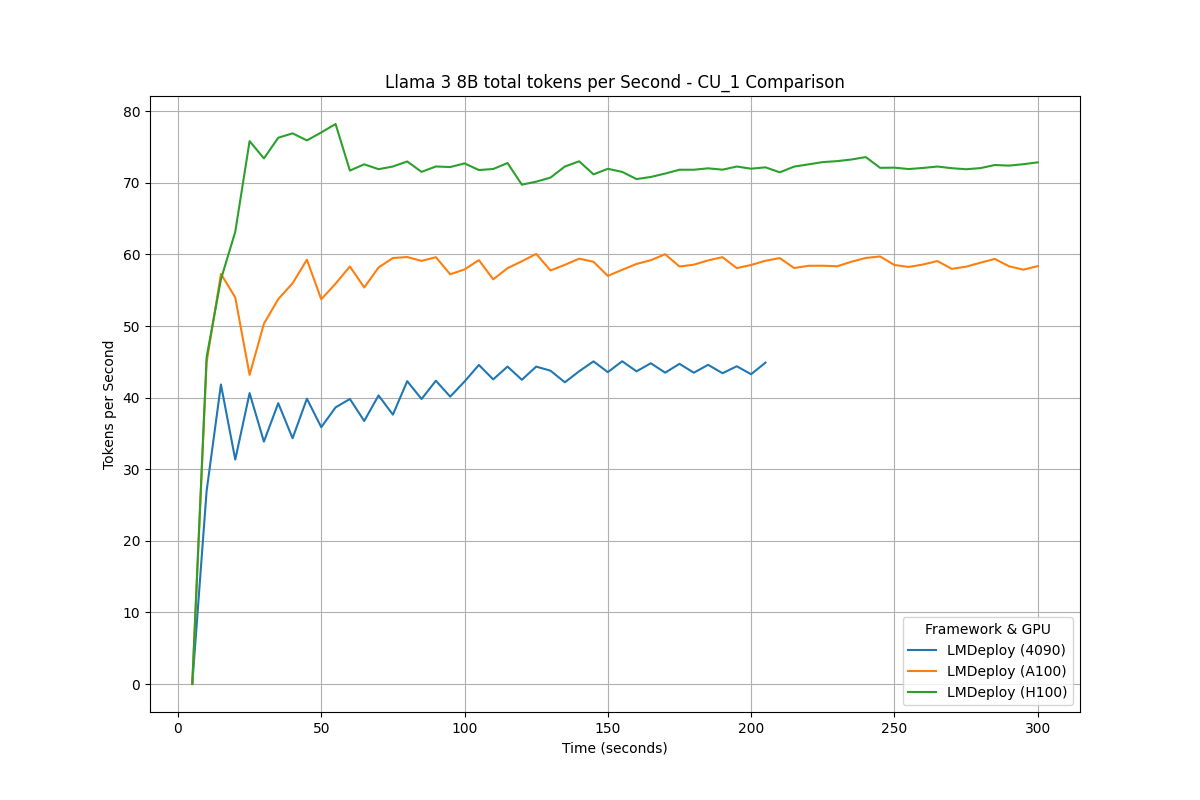
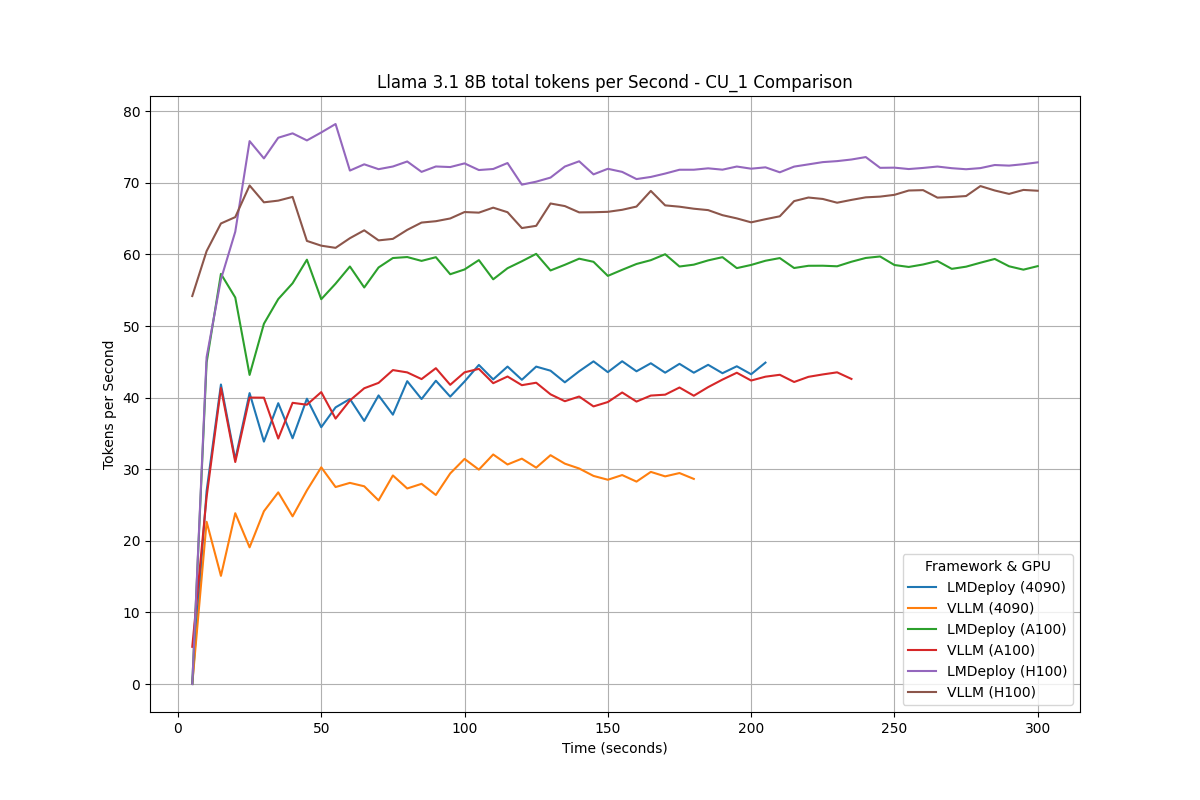
1

diff --git a/plot_graphs_v2.py b/plot_graphs_v2.py
@@ -43,7 +43,7 @@ def generate_framework_cu_plots(model_names):
             for df in dfs:
                 plt.plot(df['Time (seconds)'], df['Tokens per Second'], label=key)
 
-        plt.title(f'Llama 3 8B total tokens per Second - {cu} Comparison')
+        plt.title(f'Llama 3.1 8B total tokens per Second - {cu} Comparison')
         plt.xlabel('Time (seconds)')
         plt.ylabel('Tokens per Second')
         plt.legend(title="Framework & GPU")
